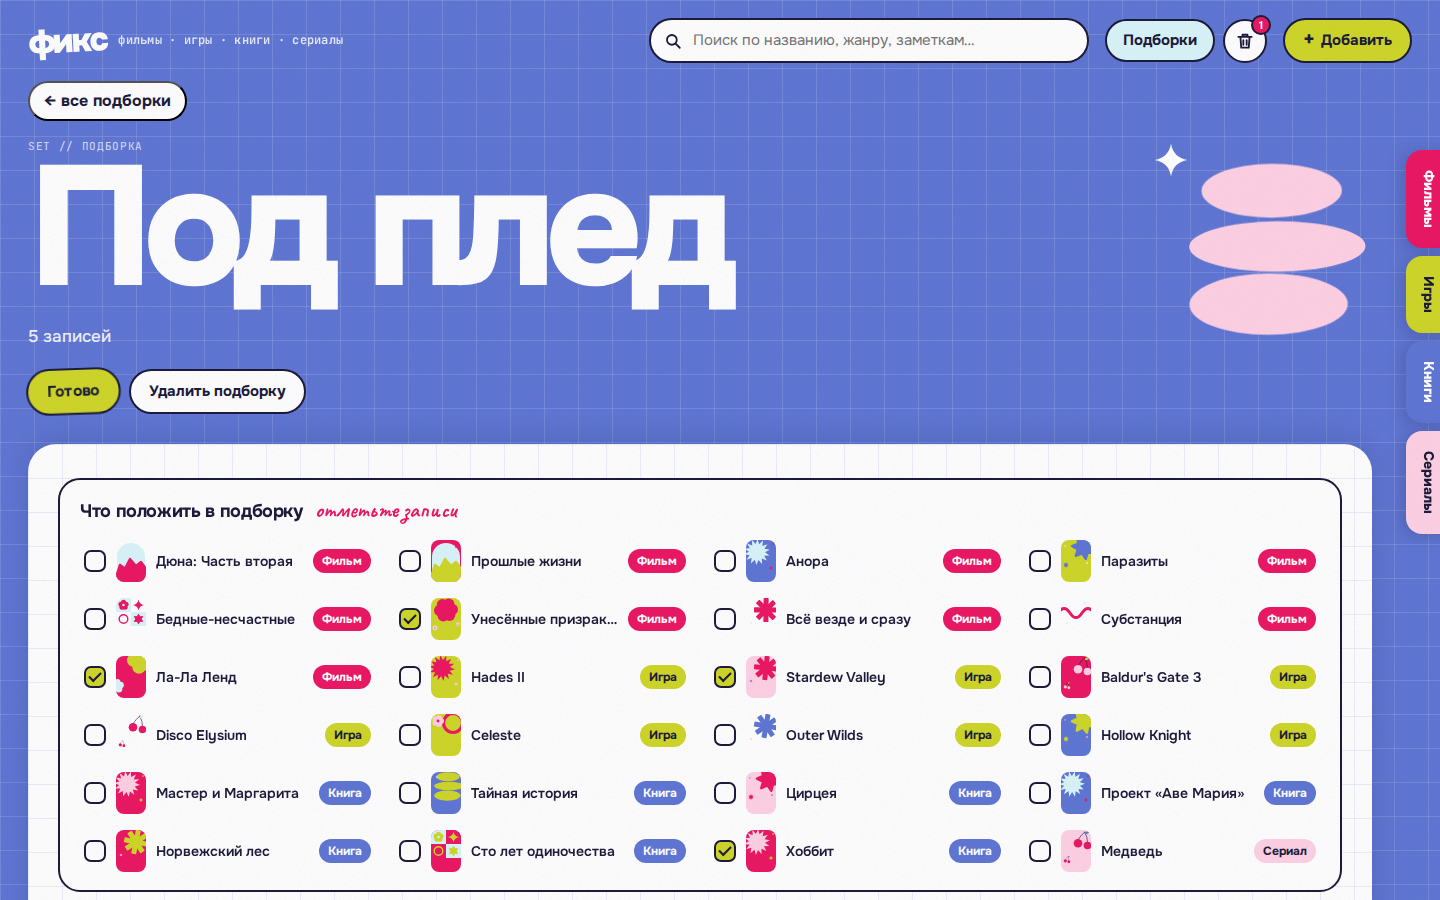
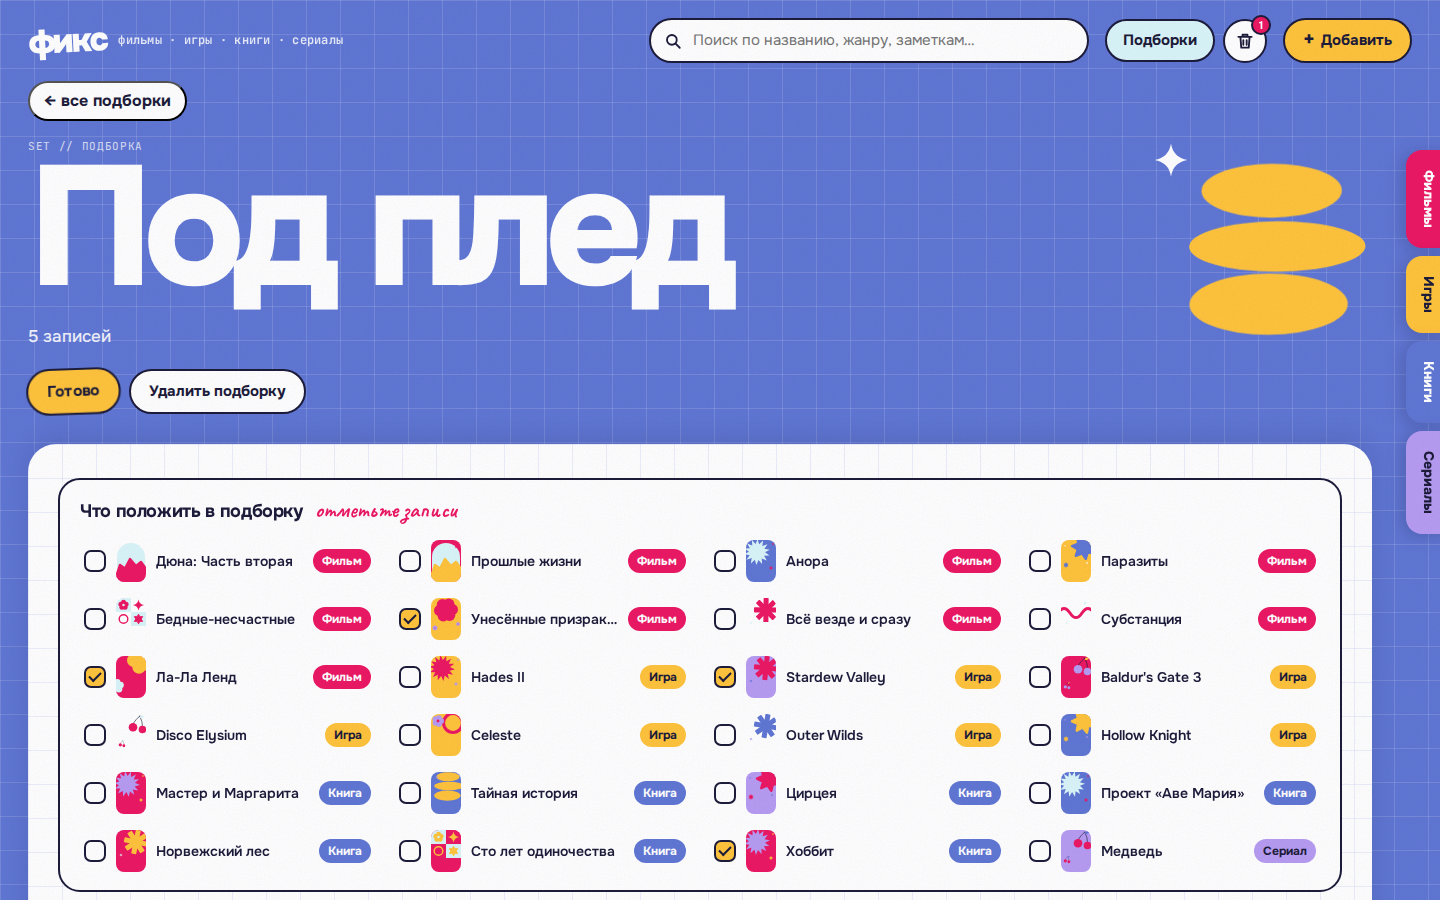
Палитра без лайма и второго розового, шрифт заголовков Soledago
Лайм заменён солнечно-жёлтым, бледно-розовый — сиреневым. Заголовки
подключены к Soledago из fonts/ с запасным Onest.

Claude-Session: https://claude.ai/code/session_01PDBpM1BjsubR5k6YmRK1Ea

diff --git a/css/styles.css b/css/styles.css
@@ -1,3 +1,14 @@
+/* ============ Шрифт заголовков ============ */
+@font-face {
+  font-family: 'Soledago';
+  src: url('../fonts/Soledago.woff2') format('woff2'),
+       url('../fonts/Soledago.woff') format('woff'),
+       url('../fonts/Soledago.otf') format('opentype'),
+       url('../fonts/Soledago.ttf') format('truetype');
+  font-weight: 100 900; /* одно начертание на все веса — без искусственного жирного */
+  font-display: swap;
+}
+
 /* ============ Токены ============ */
 :root {
   --cream: #FFFFFF;
@@ -6,19 +17,21 @@
   --ink: #1C1B3A;
   --ink-2: #5D6182;
   --tomato: #EC1864; /* акцент: малиновый */
-  --pink: #FFD1E4;
-  --lime: #CFD72A;
+  --lilac: #B79CF2;
+  --sun: #FFC43D;
   --forest: #6077D4;
-  --yellow: #CFD72A;
+  --yellow: #FFC43D;
   --blue: #6077D4;
   --lav: #DAF5F9;
   --violet: #6077D4;
-  --peach: #FFD1E4;
+  --peach: #B79CF2;
 
   --r: 14px;          /* радиус вогнутых «плечиков» язычка */
   --tab-w: 50px;      /* ширина боковых язычков папок */
   --gutter: 28px;
 
+  /* Заголовки — Soledago (файл в fonts/). Пока файла нет, браузер берёт Onest. */
+  --display: 'Soledago', 'Onest', system-ui, sans-serif;
   --font: 'Onest', system-ui, -apple-system, 'Segoe UI', sans-serif;
   --hand: 'Caveat', 'Comic Sans MS', cursive;
   --mono: 'JetBrains Mono', ui-monospace, 'SFMono-Regular', monospace;
@@ -67,6 +80,17 @@ button, input, select, textarea { font: inherit; color: inherit; }
 .mono { font: 500 11px/1.3 var(--mono); letter-spacing: .06em; text-transform: uppercase; opacity: .75; }
 [hidden] { display: none !important; }
 .sr { position: absolute; width: 1px; height: 1px; overflow: hidden; clip: rect(0 0 0 0); }
+
+/* Заголовки набраны Soledago. Трекинг подогнан под Onest; когда Soledago
+   загрузился, app.js ставит .has-display-font и трекинг ослабляется. */
+.logo-word, .folder-vtitle, .title-sheet h1, .coll-hero h1, .pack-name, .detail-info h2, .add-head h2 {
+  font-family: var(--display);
+  font-synthesis: none;
+}
+.has-display-font :is(.logo-word, .folder-vtitle, .title-sheet h1, .coll-hero h1, .pack-name, .detail-info h2, .add-head h2) {
+  letter-spacing: -.01em;
+  font-weight: 400;
+}
 
 /* ============ Кнопки и общие элементы ============ */
 .btn {
@@ -707,7 +731,7 @@ body[data-view="collection"] .logo-word { color: var(--page-fi, var(--ink)); }
 .picker-row:hover { background: #DAF5F9; }
 .picker-row input { position: absolute; opacity: 0; pointer-events: none; }
 .picker-check { flex: none; width: 22px; height: 22px; border: 2px solid var(--ink); border-radius: 7px; background: var(--cream); display: grid; place-items: center; }
-.picker-row input:checked + .picker-check { background: var(--lime); }
+.picker-row input:checked + .picker-check { background: var(--sun); }
 .picker-row input:checked + .picker-check::after { content: ""; width: 10px; height: 5px; border: solid var(--ink); border-width: 0 0 2.5px 2.5px; transform: translateY(-1px) rotate(-45deg); }
 .picker-row input:focus-visible + .picker-check { outline: 3px solid var(--violet); outline-offset: 2px; }
 .picker-row .now-thumb { width: 30px; height: 42px; }
@@ -754,7 +778,7 @@ body[data-view="collection"] .logo-word { color: var(--page-fi, var(--ink)); }
   position: relative;
   margin: 0;
   font-size: 17px; font-weight: 500; line-height: 1.4; font-style: italic;
-  background: var(--pink-soft, #FFD1E4);
+  background: #ECE3FF;
   border-radius: 18px;
   padding: 14px 18px 14px 46px;
 }

diff --git a/js/covers.js b/js/covers.js
@@ -5,21 +5,21 @@ window.Diary = window.Diary || {};
 Diary.covers = (() => {
   const INK = '#1C1B3A';
 
-  // Палитра: голубой #DAF5F9, синий #6077D4, лайм #CFD72A, малиновый #EC1864, розовый #FFD1E4.
-  const C = { cyan: '#DAF5F9', blue: '#6077D4', lime: '#CFD72A', berry: '#EC1864', pink: '#FFD1E4', white: '#FFFFFF' };
+  // Палитра: голубой #DAF5F9, синий #6077D4, жёлтый #FFC43D, малиновый #EC1864, сиреневый #B79CF2.
+  const C = { cyan: '#DAF5F9', blue: '#6077D4', sun: '#FFC43D', berry: '#EC1864', lilac: '#B79CF2', white: '#FFFFFF' };
   const PALETTES = [
-    { bg: C.pink,  main: C.berry, acc: C.blue,  text: C.berry },
-    { bg: C.blue,  main: C.lime,  acc: C.pink,  text: C.white },
+    { bg: C.lilac,  main: C.berry, acc: C.blue,  text: C.berry },
+    { bg: C.blue,  main: C.sun,  acc: C.lilac,  text: C.white },
     { bg: C.cyan,  main: C.blue,  acc: C.berry, text: C.blue },
-    { bg: C.berry, main: C.pink,  acc: C.lime,  text: C.white },
-    { bg: C.lime,  main: C.blue,  acc: C.white, text: INK },
+    { bg: C.berry, main: C.lilac,  acc: C.sun,  text: C.white },
+    { bg: C.sun,  main: C.blue,  acc: C.white, text: INK },
     { bg: C.white, main: C.berry, acc: C.cyan,  text: C.berry },
     { bg: C.blue,  main: C.cyan,  acc: C.berry, text: C.white },
-    { bg: C.pink,  main: C.blue,  acc: C.lime,  text: INK },
-    { bg: C.cyan,  main: C.lime,  acc: C.berry, text: INK },
-    { bg: C.berry, main: C.lime,  acc: C.cyan,  text: C.white },
-    { bg: C.lime,  main: C.berry, acc: C.pink,  text: INK },
-    { bg: C.white, main: C.blue,  acc: C.pink,  text: C.blue },
+    { bg: C.lilac,  main: C.blue,  acc: C.sun,  text: INK },
+    { bg: C.cyan,  main: C.sun,  acc: C.berry, text: INK },
+    { bg: C.berry, main: C.sun,  acc: C.cyan,  text: C.white },
+    { bg: C.sun,  main: C.berry, acc: C.lilac,  text: INK },
+    { bg: C.white, main: C.blue,  acc: C.lilac,  text: C.blue },
   ];
 
   function hash(str) {
@@ -73,7 +73,7 @@ Diary.covers = (() => {
     ring(cx, cy, r, c) {
       return `<circle cx="${f(cx)}" cy="${f(cy)}" r="${f(r * 0.86)}" fill="none" stroke="${c}" stroke-width="${f(r * 0.28)}"/>`;
     },
-    cherry(cx, cy, r, c, leaf = '#CFD72A') {
+    cherry(cx, cy, r, c, leaf = '#FFC43D') {
       const a = [cx - r * 0.5, cy + r * 0.25], b = [cx + r * 0.55, cy + r * 0.5];
       const top = [cx + r * 0.25, cy - r * 1.0];
       return `<path d="M${f(a[0])} ${f(a[1] - r * 0.4)}Q${f(cx - r * 0.2)} ${f(cy - r * 0.6)} ${f(top[0])} ${f(top[1])}M${f(b[0])} ${f(b[1] - r * 0.4)}Q${f(cx + r * 0.6)} ${f(cy - r * 0.3)} ${f(top[0])} ${f(top[1])}" stroke="${INK}" stroke-width="${f(r * 0.07)}" fill="none" stroke-linecap="round"/>

diff --git a/js/constants.js b/js/constants.js
@@ -55,19 +55,19 @@ window.Diary = window.Diary || {};
   // Цвет папки, цвет текста на ней, цвет талисмана, цвет клетки фона страницы
   // и код для язычков. Логике это не нужно — только интерфейсу.
   Diary.THEME = {
-    movie:  { code: 'FILM', c: '#EC1864', fi: '#FFFFFF', m: '#CFD72A', grid: 'rgba(255, 255, 255,.16)' },
-    game:   { code: 'GAME', c: '#CFD72A', fi: '#1C1B3A', m: '#6077D4', grid: 'rgba(28, 27, 58,.08)' },
-    book:   { code: 'BOOK', c: '#6077D4', fi: '#FFFFFF', m: '#FFD1E4', grid: 'rgba(255, 255, 255,.1)' },
-    series: { code: 'SER',  c: '#FFD1E4', fi: '#1C1B3A', m: '#EC1864', grid: 'rgba(28, 27, 58,.08)' }
+    movie:  { code: 'FILM', c: '#EC1864', fi: '#FFFFFF', m: '#FFC43D', grid: 'rgba(255, 255, 255,.16)' },
+    game:   { code: 'GAME', c: '#FFC43D', fi: '#1C1B3A', m: '#EC1864', grid: 'rgba(28, 27, 58,.08)' },
+    book:   { code: 'BOOK', c: '#6077D4', fi: '#FFFFFF', m: '#DAF5F9', grid: 'rgba(255, 255, 255,.1)' },
+    series: { code: 'SER',  c: '#B79CF2', fi: '#1C1B3A', m: '#EC1864', grid: 'rgba(28, 27, 58,.08)' }
   };
 
   // Страницы, которые не относятся к одной категории.
   Diary.PAGE_THEME = {
     collections: { c: '#6077D4', fi: '#FFFFFF', grid: 'rgba(255, 255, 255,.14)' },
-    trash:       { c: '#FFD1E4', fi: '#1C1B3A', grid: 'rgba(28, 27, 58,.08)' }
+    trash:       { c: '#B79CF2', fi: '#1C1B3A', grid: 'rgba(28, 27, 58,.08)' }
   };
 
-  Diary.STATUS_COLOR = { planned: '#CFD72A', done: '#DAF5F9' };
+  Diary.STATUS_COLOR = { planned: '#FFC43D', done: '#DAF5F9' };
 
   // Формы для «12 фильмов», «3 игры» и т. п.
   Diary.CATEGORY_FORMS = {

diff --git a/js/home.js b/js/home.js
@@ -46,7 +46,7 @@ window.Diary = window.Diary || {};
       '<div class="mono">FILE_00 // идея фикс · ' + YEAR + '</div>' +
       '<div class="title-row">' +
       '<h1>фикс</h1>' +
-      '<span class="title-deco" aria-hidden="true">' + Diary.covers.figure('series', '#CFD72A') + Diary.covers.figure('movie', '#FFD1E4') + '</span>' +
+      '<span class="title-deco" aria-hidden="true">' + Diary.covers.figure('series', '#FFC43D') + Diary.covers.figure('movie', '#B79CF2') + '</span>' +
       '</div>' +
       '<p class="decode">' + Diary.CATEGORIES.map(function (cat) {
         var label = Diary.CATEGORY_LABEL_PLURAL[cat];
@@ -57,8 +57,8 @@ window.Diary = window.Diary || {};
       Diary.CATEGORIES.map(function (cat) { return statTileHtml(cat, active); }).join('') +
       '</section>' +
       '<div class="stats">' +
-      '<span class="sticker" style="--s:#CFD72A">' + active.length + ' ' + utils.plural(active.length, ['запись', 'записи', 'записей']) + '</span>' +
-      '<span class="sticker" style="--s:#FFD1E4">' + doneThisYear(active) + ' завершено за ' + YEAR + '</span>' +
+      '<span class="sticker" style="--s:#FFC43D">' + active.length + ' ' + utils.plural(active.length, ['запись', 'записи', 'записей']) + '</span>' +
+      '<span class="sticker" style="--s:#B79CF2">' + doneThisYear(active) + ' завершено за ' + YEAR + '</span>' +
       '<span class="sticker" style="--s:#DAF5F9">' + planned + ' в планах</span>' +
       '<a class="sticker sticker--link" href="#/collections" style="--s:#6077D4;color:#FFFFFF">' + collections + ' ' + utils.plural(collections, ['подборка', 'подборки', 'подборок']) + ' →</a>' +
       '</div>' +

diff --git a/js/collections.js b/js/collections.js
@@ -18,8 +18,8 @@ window.Diary = window.Diary || {};
 
   // Цвета папок-подборок идут по кругу.
   var PACK_COLORS = [
-    ['#EC1864', '#FFFFFF'], ['#CFD72A', '#1C1B3A'], ['#6077D4', '#FFFFFF'],
-    ['#FFD1E4', '#1C1B3A'], ['#DAF5F9', '#1C1B3A']
+    ['#EC1864', '#FFFFFF'], ['#FFC43D', '#1C1B3A'], ['#6077D4', '#FFFFFF'],
+    ['#B79CF2', '#1C1B3A'], ['#DAF5F9', '#1C1B3A']
   ];
 
   function liveEntries(entryIds) {
@@ -34,7 +34,7 @@ window.Diary = window.Diary || {};
 
   function pageVars() {
     var t = Diary.PAGE_THEME.collections;
-    return '--c:' + t.c + ';--fi:' + t.fi + ';--m:#FFD1E4';
+    return '--c:' + t.c + ';--fi:' + t.fi + ';--m:#FFC43D';
   }
 
   function headHtml(opts) {
@@ -47,7 +47,7 @@ window.Diary = window.Diary || {};
       '<h1>' + esc(opts.title) + '</h1>' +
       '<p class="coll-sub">' + esc(opts.sub) + '</p>' +
       '</div>' +
-      '<div class="coll-figure coll-figure--still">' + Diary.covers.figure('collections', '#FFD1E4') +
+      '<div class="coll-figure coll-figure--still">' + Diary.covers.figure('collections', '#FFC43D') +
       '<svg class="doodle" viewBox="0 0 60 60" aria-hidden="true">' + Diary.covers.sparkle(30, 30, 26, 'currentColor') + '</svg></div>' +
       '</div>' +
       '<div class="coll-tools">' + opts.tools + '</div>' +

diff --git a/js/modal.js b/js/modal.js
@@ -111,7 +111,7 @@ window.Diary = window.Diary || {};
     modalEl.querySelector('#editBtn').focus({ preventScroll: true });
   }
 
-  var TAG_COLORS = ['#CFD72A', '#FFD1E4', '#DAF5F9'];
+  var TAG_COLORS = ['#FFC43D', '#B79CF2', '#DAF5F9'];
 
   // ==================== EDIT MODE ====================
 
@@ -226,7 +226,7 @@ window.Diary = window.Diary || {};
     var picker = modalEl.querySelector('#genrePicker');
     picker.innerHTML = list.map(function (g) {
       var on = selectedGenres.indexOf(g) !== -1;
-      return '<button type="button" class="chip' + (on ? ' is-on' : '') + '" style="--sc:#CFD72A" data-genre="' + esc(g) + '" aria-pressed="' + on + '">' + esc(g) + '</button>';
+      return '<button type="button" class="chip' + (on ? ' is-on' : '') + '" style="--sc:#FFC43D" data-genre="' + esc(g) + '" aria-pressed="' + on + '">' + esc(g) + '</button>';
     }).join('');
   }
 

diff --git a/js/render.js b/js/render.js
@@ -97,7 +97,7 @@ window.Diary = window.Diary || {};
   }
 
   function emptyStateHtml(hasAny, category) {
-    var fig = Diary.covers.figure(category || 'movie', category ? Diary.THEME[category].m : '#CFD72A');
+    var fig = Diary.covers.figure(category || 'movie', category ? Diary.THEME[category].m : '#FFC43D');
     if (!hasAny) {
       return '<div class="empty">' + fig + '<p>Пока пусто</p><span class="empty-hint">Добавьте первую запись — дневник начнётся с неё.</span>' +
         '<button class="btn" data-action="add"' + (category ? ' data-category="' + category + '"' : '') + ' type="button">+ Положить первое</button></div>';

diff --git a/js/app.js b/js/app.js
@@ -122,6 +122,13 @@ window.Diary = window.Diary || {};
   function init() {
     app = document.getElementById('app');
 
+    // Шрифт заголовков лежит в fonts/. Если он нашёлся — ослабляем трекинг под него.
+    if (document.fonts && document.fonts.load) {
+      document.fonts.load('1em Soledago').then(function (faces) {
+        if (faces.length) document.documentElement.classList.add('has-display-font');
+      }).catch(function () {});
+    }
+
     Diary.home.setup(app);
     Diary.category.setup(app);
     Diary.collections.setup(app);

diff --git a/js/stars.js b/js/stars.js
@@ -9,7 +9,7 @@ window.Diary = window.Diary || {};
 
   function starSvg(filled, size) {
     return '<svg viewBox="0 0 24 24" width="' + size + '" height="' + size + '" aria-hidden="true">' +
-      '<path d="' + PATH + '" fill="' + (filled ? '#CFD72A' : 'none') + '" stroke="#1C1B3A" stroke-width="1.8" stroke-linejoin="round"/></svg>';
+      '<path d="' + PATH + '" fill="' + (filled ? '#FFC43D' : 'none') + '" stroke="#1C1B3A" stroke-width="1.8" stroke-linejoin="round"/></svg>';
   }
 
   function slotFillPercent(rating, slotIndex) {

diff --git a/README.md b/README.md
@@ -9,6 +9,8 @@
 - **Обычный режим** — ваши записи из `localStorage` (ключи `mediaDiary.entries.v1` и `mediaDiary.collections.v1`).
 - **Демо** — `index.html?demo`: отдельное хранилище с примерами, настоящие записи не трогаются.
 
+Шрифт заголовков — Soledago: положите файл в `fonts/` (см. `fonts/README.md`). Без него заголовки набираются Onest.
+
 Поиск по каталогам: скопируйте `js/secrets.example.js` в `js/secrets.js` и впишите ключи. Файл в `.gitignore`. Без него приложение работает, Google Books ищет и без ключа.
 
 ## Устройство

diff --git a/fonts/README.md b/fonts/README.md
@@ -1,0 +1,6 @@
+# Шрифт заголовков
+
+Сюда кладётся файл шрифта **Soledago** (автор — Александра Гофман, бесплатный, с кириллицей).
+
+Имя файла — `Soledago` с любым из расширений: `.woff2`, `.woff`, `.otf` или `.ttf`.
+Пока файла нет, заголовки набираются Onest.
